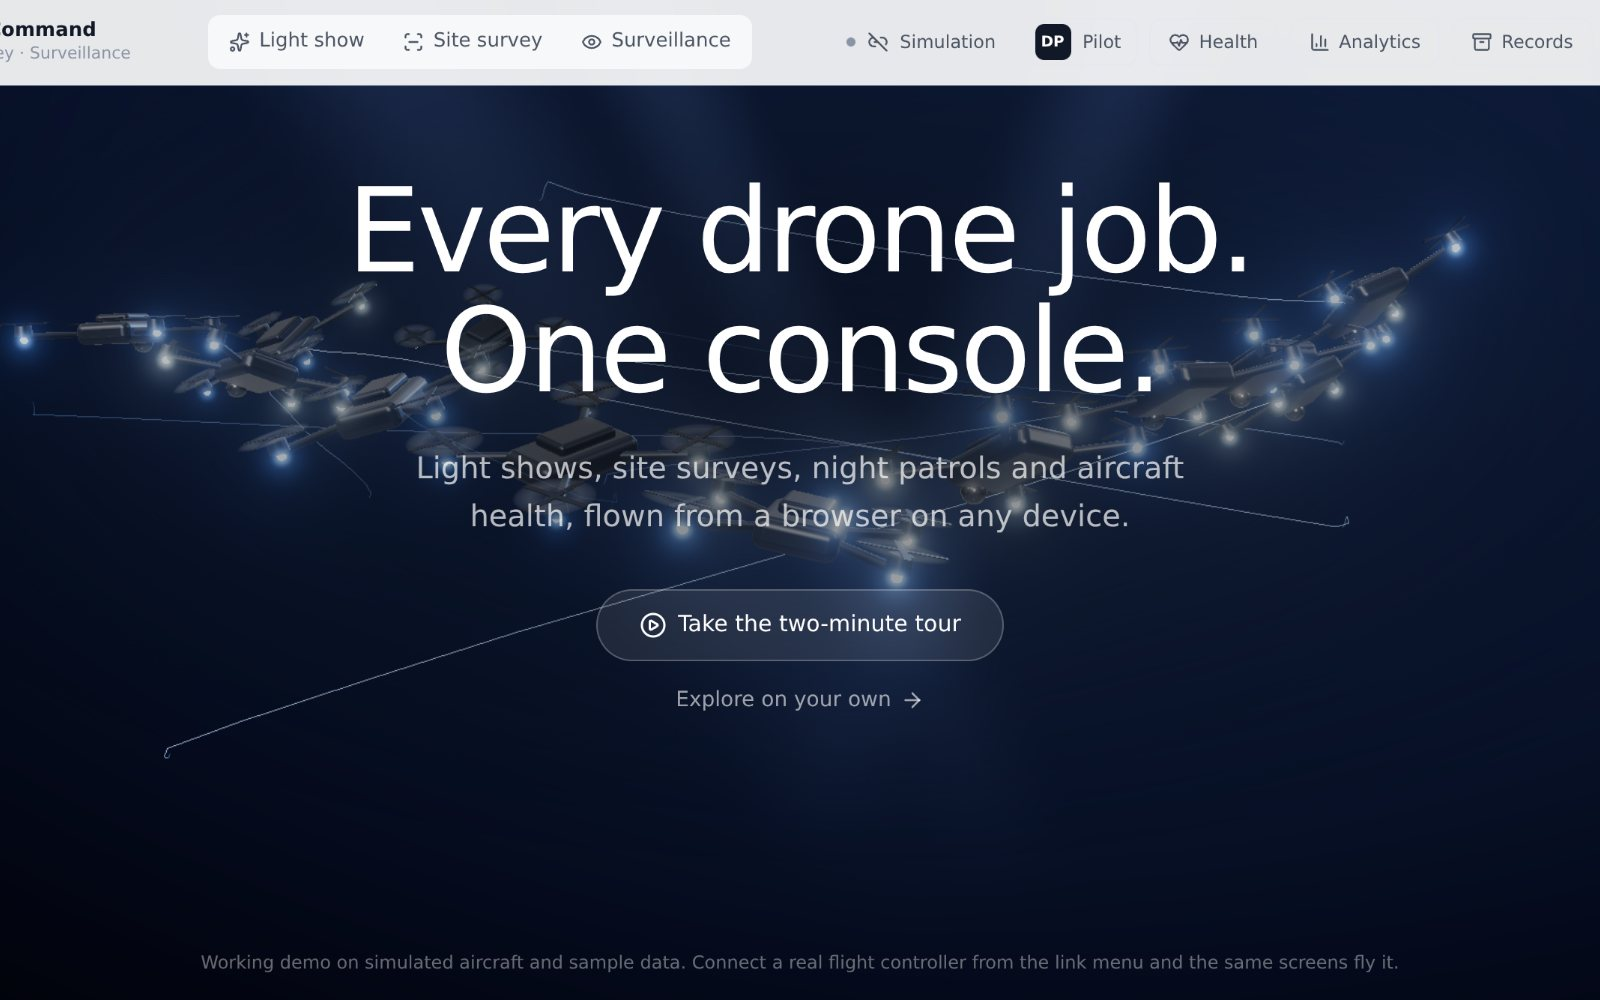
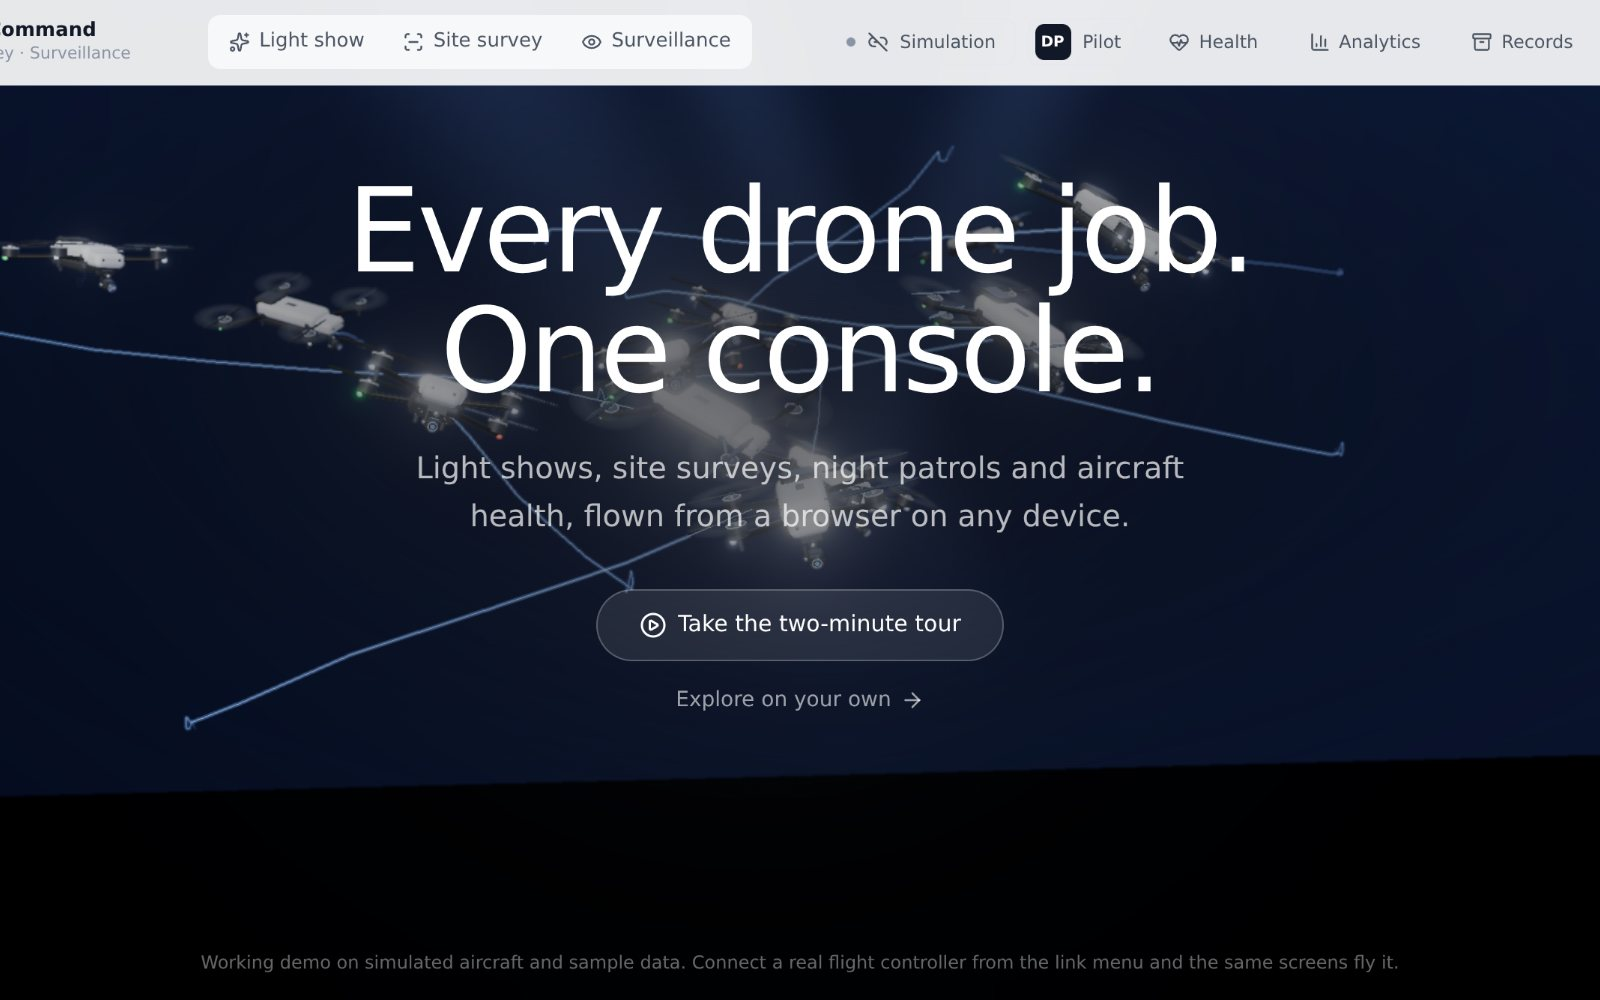
Overview hero: Mavic-class airframe, studio lighting, depth of field
The hero drones are now a consumer quadcopter built from primitives: white
and graphite two-tone shell with a seam line, folding carbon arms on hinge
pivots, motor housings with a brushed ring and vent slits, tapered two-blade
propellers with a blur disc, a three-axis gimbal under the nose with an
articulated arm and a blue-coated lens, obstacle sensors, status LEDs,
landing skids and micro-screws. Key, fill and rim lights, a three-quarter
elevated camera, and shallow depth of field focused on the nearest aircraft
(skipped on phones). Bloom now catches only the LEDs. Social preview and
gallery images regenerated.

Claude-Session: https://claude.ai/code/session_01YRwyL2vKMqSR8sPnguMhnM

diff --git a/drone/src/dashboards/hero/DroneHero.tsx b/drone/src/dashboards/hero/DroneHero.tsx
@@ -4,6 +4,7 @@ import { EffectComposer } from 'three/examples/jsm/postprocessing/EffectComposer
 import { RenderPass } from 'three/examples/jsm/postprocessing/RenderPass.js';
 import { UnrealBloomPass } from 'three/examples/jsm/postprocessing/UnrealBloomPass.js';
 import { OutputPass } from 'three/examples/jsm/postprocessing/OutputPass.js';
+import { BokehPass } from 'three/examples/jsm/postprocessing/BokehPass.js';
 import { RoundedBoxGeometry } from 'three/examples/jsm/geometries/RoundedBoxGeometry.js';
 import { RoomEnvironment } from 'three/examples/jsm/environments/RoomEnvironment.js';
 
@@ -62,34 +63,81 @@ interface Drone {
   roll: number; pitch: number; yaw: number;
 }
 
-function buildDrone(mats: Record<string, THREE.Material>, blurTex: THREE.Texture, ledColor: THREE.Color): { group: THREE.Group; props: THREE.Group[]; blur: THREE.Mesh[] } {
+/**
+ * A Mavic-class consumer quadcopter, built from primitives: white-and-graphite
+ * two-tone shell with a seam line, folding carbon arms on hinge pivots, motor
+ * housings with a brushed ring and vent slits, tapered two-blade propellers with
+ * a blur disc, a three-axis gimbal on the nose cradling a blue-coated lens,
+ * obstacle sensors, status LEDs, landing skids and micro-screws.
+ * Local axes: +x forward, +y up, +z right. About 1.3 units nose to tail.
+ */
+function buildDrone(mats: Record<string, THREE.Material>, blurTex: THREE.Texture): { group: THREE.Group; props: THREE.Group[]; blur: THREE.Mesh[] } {
   const g = new THREE.Group();
-  const body = new THREE.Mesh(new RoundedBoxGeometry(1.05, 0.26, 0.64, 4, 0.09), mats.body);
-  g.add(body);
-  const canopy = new THREE.Mesh(new RoundedBoxGeometry(0.62, 0.12, 0.4, 3, 0.05), mats.canopy);
-  canopy.position.set(0.05, 0.17, 0); g.add(canopy);
-  const gimbal = new THREE.Mesh(new THREE.SphereGeometry(0.12, 20, 14), mats.glass);
-  gimbal.position.set(0.5, -0.13, 0); g.add(gimbal);
+  const add = (geo: THREE.BufferGeometry, m: THREE.Material, x: number, y: number, z: number, rx = 0, ry = 0, rz = 0) => {
+    const mesh = new THREE.Mesh(geo, m); mesh.position.set(x, y, z); mesh.rotation.set(rx, ry, rz); g.add(mesh); return mesh;
+  };
+  // Shell: white upper, graphite lower, a dark seam between, a tapered nose and a battery hump at the tail.
+  add(new RoundedBoxGeometry(0.92, 0.2, 0.4, 5, 0.08), mats.white, 0, 0.05, 0);
+  add(new RoundedBoxGeometry(0.34, 0.16, 0.32, 4, 0.06), mats.white, 0.52, 0.01, 0);
+  add(new RoundedBoxGeometry(0.9, 0.12, 0.42, 4, 0.05), mats.graphite, -0.02, -0.08, 0);
+  add(new THREE.BoxGeometry(0.93, 0.008, 0.415), mats.seam, 0, -0.03, 0);
+  add(new RoundedBoxGeometry(0.3, 0.1, 0.3, 4, 0.04), mats.graphite, -0.36, 0.14, 0);
+  add(new RoundedBoxGeometry(0.16, 0.006, 0.07, 2, 0.003), mats.logo, -0.02, 0.152, 0);             // manufacturer mark
+  for (const zz of [-0.215, 0.215]) for (let k = 0; k < 3; k++) add(new THREE.BoxGeometry(0.05, 0.004, 0.006), mats.seam, -0.18 - k * 0.07, -0.06, zz);  // vent slits
+  for (const [x, z] of [[0.3, 0.14], [0.3, -0.14], [-0.3, 0.14], [-0.3, -0.14]]) add(new THREE.CylinderGeometry(0.009, 0.009, 0.004, 8), mats.metal, x, -0.142, z);  // micro screws
+  // Obstacle-avoidance sensors: two on the nose, two underneath.
+  const sensorGeo = new THREE.CylinderGeometry(0.016, 0.016, 0.01, 12);
+  for (const zz of [-0.09, 0.09]) add(sensorGeo, mats.sensor, 0.69, 0.02, zz, 0, 0, Math.PI / 2);
+  for (const zz of [-0.1, 0.1]) add(sensorGeo, mats.sensor, 0.12, -0.145, zz);
+  // Arms: front pair swept forward and up, rear pair back and lower, each on a hinge pivot.
   const props: THREE.Group[] = [], blur: THREE.Mesh[] = [];
-  const armGeo = new THREE.CylinderGeometry(0.035, 0.045, 0.98, 10).rotateZ(Math.PI / 2);
-  const motorGeo = new THREE.CylinderGeometry(0.09, 0.1, 0.13, 16);
-  const ledGeo = new THREE.SphereGeometry(0.045, 10, 8);
-  const bladeGeo = new THREE.BoxGeometry(0.66, 0.012, 0.055);
-  const discGeo = new THREE.CircleGeometry(0.34, 32);
-  for (const [sx, sz] of [[1, 1], [1, -1], [-1, 1], [-1, -1]]) {
-    const arm = new THREE.Mesh(armGeo, mats.arm);
-    arm.position.set(sx * 0.42, 0, sz * 0.42); arm.rotation.y = -Math.atan2(sz, sx); g.add(arm);
-    const tip = new THREE.Vector3(sx * 0.78, 0, sz * 0.78);
-    const motor = new THREE.Mesh(motorGeo, mats.arm); motor.position.copy(tip).setY(0.06); g.add(motor);
-    const led = new THREE.Mesh(ledGeo, sx > 0 ? mats.ledFront : mats.ledRear); led.position.copy(tip).setY(-0.04); g.add(led);
-    const prop = new THREE.Group(); prop.position.copy(tip).setY(0.15);
-    const b1 = new THREE.Mesh(bladeGeo, mats.blade), b2 = new THREE.Mesh(bladeGeo, mats.blade); b2.rotation.y = Math.PI / 2;
-    prop.add(b1, b2);
-    const disc = new THREE.Mesh(discGeo, new THREE.MeshBasicMaterial({ map: blurTex, color: 0x9aa4b0, transparent: true, opacity: 0.28, depthWrite: false }));
-    disc.rotation.x = -Math.PI / 2; disc.position.y = 0.002; prop.add(disc);
+  const bladeShape = new THREE.Shape();
+  bladeShape.moveTo(0.02, -0.024); bladeShape.quadraticCurveTo(0.2, -0.05, 0.38, -0.012); bladeShape.lineTo(0.38, 0.008); bladeShape.quadraticCurveTo(0.2, 0.042, 0.02, 0.024); bladeShape.closePath();
+  const bladeGeo = new THREE.ExtrudeGeometry(bladeShape, { depth: 0.007, bevelEnabled: false }).rotateX(-Math.PI / 2);
+  const discGeo = new THREE.CircleGeometry(0.39, 40);
+  const arms: [number, number, number, number, number, number][] = [
+    [0.36, 0.0, 0.17, 0.66, 0.05, 0.55], [0.36, 0.0, -0.17, 0.66, 0.05, -0.55],
+    [-0.34, -0.03, 0.18, -0.62, -0.07, 0.6], [-0.34, -0.03, -0.18, -0.62, -0.07, -0.6],
+  ];
+  arms.forEach(([hx, hy, hz, tx, ty, tz], k) => {
+    add(new THREE.CylinderGeometry(0.045, 0.045, 0.11, 16), mats.graphite, hx, hy, hz);                           // hinge pivot
+    add(new THREE.CylinderGeometry(0.012, 0.012, 0.13, 8), mats.metal, hx, hy, hz);                                // pivot pin
+    const dx = tx - hx, dy = ty - hy, dz = tz - hz, len = Math.hypot(dx, dy, dz);
+    const arm = add(new RoundedBoxGeometry(len + 0.06, 0.05, 0.062, 3, 0.02), mats.carbon, (hx + tx) / 2, (hy + ty) / 2, (hz + tz) / 2);
+    arm.rotation.set(0, -Math.atan2(dz, dx), Math.atan2(dy, Math.hypot(dx, dz)), 'YZX');
+    add(new THREE.CylinderGeometry(0.075, 0.085, 0.1, 20), mats.graphite, tx, ty + 0.05, tz);                       // motor housing
+    add(new THREE.TorusGeometry(0.078, 0.008, 8, 28), mats.metal, tx, ty + 0.1, tz, Math.PI / 2);                   // brushed ring
+    add(new THREE.CylinderGeometry(0.03, 0.03, 0.03, 12), mats.metal, tx, ty + 0.115, tz);                          // motor bell
+    for (let v = 0; v < 4; v++) add(new THREE.BoxGeometry(0.03, 0.005, 0.005), mats.seam, tx + 0.06 * Math.cos(v * 1.57), ty + 0.03, tz + 0.06 * Math.sin(v * 1.57), 0, -v * 1.57, 0);
+    if (k < 2) add(new RoundedBoxGeometry(0.028, 0.13, 0.028, 2, 0.008), mats.skid, tx - 0.02, ty - 0.06, tz);   // front landing skids
+    // Status LEDs on the arm tips: white-ish forward, green and red aft.
+    const led = add(new THREE.SphereGeometry(0.02, 10, 8), k < 2 ? mats.ledFront : k === 2 ? mats.ledGreen : mats.ledRed, tx + (k < 2 ? 0.04 : -0.04), ty - 0.01, tz + Math.sign(tz) * 0.05);
+    void led;
+    // Propeller: two tapered blades with a little pitch, and a blur disc.
+    const prop = new THREE.Group(); prop.position.set(tx, ty + 0.135, tz);
+    const b1 = new THREE.Mesh(bladeGeo, mats.blade); b1.rotation.x = 0.22;
+    const b2 = new THREE.Mesh(bladeGeo, mats.blade); b2.rotation.set(0.22, Math.PI, 0);
+    prop.add(b1, b2, new THREE.Mesh(new THREE.CylinderGeometry(0.02, 0.024, 0.02, 12), mats.graphite));
+    const disc = new THREE.Mesh(discGeo, new THREE.MeshBasicMaterial({ map: blurTex, color: 0x8c949e, transparent: true, opacity: 0.2, depthWrite: false }));
+    disc.rotation.x = -Math.PI / 2; disc.position.y = 0.004; prop.add(disc);
     g.add(prop); props.push(prop); blur.push(disc);
-  }
-  void ledColor;
+  });
+  for (const zz of [-0.12, 0.12]) add(new RoundedBoxGeometry(0.03, 0.08, 0.03, 2, 0.008), mats.skid, -0.42, -0.17, zz);   // rear skids
+  // Gimbal: dampers, roll motor, an articulated arm with pivot joints, the camera body and lens, tilted slightly down.
+  add(new THREE.BoxGeometry(0.1, 0.05, 0.16), mats.graphite, 0.5, -0.135, 0);
+  for (const zz of [-0.05, 0.05]) add(new THREE.SphereGeometry(0.014, 8, 6), mats.rubber, 0.52, -0.165, zz);
+  add(new THREE.CylinderGeometry(0.03, 0.03, 0.05, 16), mats.graphite, 0.58, -0.17, 0, 0, 0, Math.PI / 2);          // roll motor
+  add(new THREE.SphereGeometry(0.018, 10, 8), mats.metal, 0.61, -0.17, 0);                                          // pivot joint
+  add(new RoundedBoxGeometry(0.026, 0.1, 0.026, 2, 0.008), mats.graphite, 0.61, -0.22, 0.07);                       // arm down
+  add(new RoundedBoxGeometry(0.026, 0.026, 0.09, 2, 0.008), mats.graphite, 0.61, -0.265, 0.035);                    // arm across
+  add(new THREE.SphereGeometry(0.016, 10, 8), mats.metal, 0.61, -0.265, 0.075);                                     // tilt joint
+  const camGroup = new THREE.Group(); camGroup.position.set(0.61, -0.265, 0); camGroup.rotation.z = -0.28;          // tilted down, stabilising
+  const camBody = new THREE.Mesh(new RoundedBoxGeometry(0.11, 0.1, 0.12, 3, 0.03), mats.graphite); camGroup.add(camBody);
+  const barrel = new THREE.Mesh(new THREE.CylinderGeometry(0.038, 0.042, 0.05, 24), mats.graphite); barrel.rotation.z = Math.PI / 2; barrel.position.x = 0.075; camGroup.add(barrel);
+  const ring = new THREE.Mesh(new THREE.TorusGeometry(0.036, 0.005, 8, 28), mats.metal); ring.rotation.y = Math.PI / 2; ring.position.x = 0.1; camGroup.add(ring);       // aperture ring
+  const lens = new THREE.Mesh(new THREE.CylinderGeometry(0.03, 0.03, 0.012, 24), mats.lens); lens.rotation.z = Math.PI / 2; lens.position.x = 0.098; camGroup.add(lens);
+  const coat = new THREE.Mesh(new THREE.CircleGeometry(0.022, 24), mats.coating); coat.rotation.y = Math.PI / 2; coat.position.x = 0.105; camGroup.add(coat);          // blue anti-reflective glint
+  g.add(camGroup);
   return { group: g, props, blur };
 }
 
@@ -115,21 +163,22 @@ export const DroneHero: React.FC<{ className?: string }> = ({ className = '' }) 
     scene.fog = new THREE.Fog(0x05070c, 16, 58);
     const pmrem = new THREE.PMREMGenerator(renderer);
     scene.environment = pmrem.fromScene(new RoomEnvironment(), 0.04).texture;
-    scene.environmentIntensity = 0.9;
+    scene.environmentIntensity = 0.55;
     const cam = new THREE.PerspectiveCamera(42, 16 / 9, 0.5, 120);
 
     // Backdrop: deep navy glow falling to black, outside the fog.
-    const back = new THREE.Mesh(new THREE.PlaneGeometry(320, 200), new THREE.ShaderMaterial({
+    const back = new THREE.Mesh(new THREE.PlaneGeometry(900, 700), new THREE.ShaderMaterial({
       fog: false, depthWrite: false,
       vertexShader: 'varying vec2 vUv; void main(){ vUv = uv; gl_Position = projectionMatrix * modelViewMatrix * vec4(position, 1.0); }',
-      fragmentShader: 'varying vec2 vUv; void main(){ float d = distance(vUv, vec2(0.58, 0.62)); vec3 c = mix(vec3(0.014, 0.024, 0.06), vec3(0.0016, 0.002, 0.0038), smoothstep(0.04, 0.6, d)); gl_FragColor = vec4(c, 1.0); }',
+      fragmentShader: 'varying vec2 vUv; void main(){ float d = distance((vUv - 0.5) * vec2(1.0, 0.78) + 0.5, vec2(0.54, 0.56)); vec3 c = mix(vec3(0.014, 0.024, 0.06), vec3(0.0016, 0.002, 0.0038), smoothstep(0.02, 0.3, d)); gl_FragColor = vec4(c, 1.0); }',
     }));
     back.position.z = -90; scene.add(back);
 
     // Lighting: warm key from the front-left and above, cool rim from behind, faint sky fill.
     scene.add(new THREE.HemisphereLight(0x8fa8d8, 0x06080c, 0.55));
-    const key = new THREE.DirectionalLight(0xfff1e0, 3.6); key.position.set(-8, 12, 14); scene.add(key);
-    const rim = new THREE.DirectionalLight(0x6fa8ff, 3.2); rim.position.set(6, 5, -18); scene.add(rim);
+    const key = new THREE.DirectionalLight(0xfff1e0, 1.7); key.position.set(-9, 14, 12); scene.add(key);
+    const fill = new THREE.DirectionalLight(0xdbe6ff, 0.55); fill.position.set(10, 3, 14); scene.add(fill);
+    const rim = new THREE.DirectionalLight(0x8fc0ff, 2.4); rim.position.set(2, 9, -16); scene.add(rim);
     const under = new THREE.DirectionalLight(0x3d6fd6, 0.6); under.position.set(0, -10, 4); scene.add(under);
 
     // Volumetric beams: soft additive slabs cutting through the haze.
@@ -147,13 +196,21 @@ export const DroneHero: React.FC<{ className?: string }> = ({ className = '' }) 
 
     // Materials: anodised metal, dark glass, LEDs bright enough to bloom.
     const mats: Record<string, THREE.Material> = {
-      body: new THREE.MeshStandardMaterial({ color: 0x262b33, metalness: 0.62, roughness: 0.3 }),
-      canopy: new THREE.MeshStandardMaterial({ color: 0x23272e, metalness: 0.7, roughness: 0.28 }),
-      arm: new THREE.MeshStandardMaterial({ color: 0x2a2f37, metalness: 0.7, roughness: 0.38 }),
-      glass: new THREE.MeshPhysicalMaterial({ color: 0x080a0e, metalness: 0.1, roughness: 0.12, clearcoat: 1, clearcoatRoughness: 0.08 }),
-      blade: new THREE.MeshStandardMaterial({ color: 0x0f1115, metalness: 0.5, roughness: 0.5 }),
-      ledFront: new THREE.MeshBasicMaterial({ color: new THREE.Color(2.4, 3.2, 3.8), toneMapped: false }),
-      ledRear: new THREE.MeshBasicMaterial({ color: new THREE.Color(0.7, 1.7, 4.2), toneMapped: false }),
+      white: new THREE.MeshPhysicalMaterial({ color: 0xcfd3d7, metalness: 0.02, roughness: 0.5, clearcoat: 0.35, clearcoatRoughness: 0.4 }),
+      graphite: new THREE.MeshPhysicalMaterial({ color: 0x2c3036, metalness: 0.15, roughness: 0.55, clearcoat: 0.2, clearcoatRoughness: 0.5 }),
+      carbon: new THREE.MeshStandardMaterial({ color: 0x1b1e23, metalness: 0.35, roughness: 0.42 }),
+      seam: new THREE.MeshStandardMaterial({ color: 0x0c0e11, metalness: 0.2, roughness: 0.8 }),
+      logo: new THREE.MeshStandardMaterial({ color: 0x4a4f57, metalness: 0.4, roughness: 0.5 }),
+      metal: new THREE.MeshStandardMaterial({ color: 0xb9bec6, metalness: 0.95, roughness: 0.32 }),
+      skid: new THREE.MeshStandardMaterial({ color: 0x3a3d42, metalness: 0.1, roughness: 0.85 }),
+      rubber: new THREE.MeshStandardMaterial({ color: 0x1a1b1e, metalness: 0, roughness: 0.95 }),
+      sensor: new THREE.MeshPhysicalMaterial({ color: 0x0a0d12, metalness: 0.1, roughness: 0.15, clearcoat: 1, clearcoatRoughness: 0.05 }),
+      lens: new THREE.MeshPhysicalMaterial({ color: 0x08111f, metalness: 0.05, roughness: 0.04, clearcoat: 1, clearcoatRoughness: 0.02, envMapIntensity: 2.2 }),
+      coating: new THREE.MeshBasicMaterial({ color: new THREE.Color(0.25, 0.55, 1.4), transparent: true, opacity: 0.55, toneMapped: false }),
+      blade: new THREE.MeshStandardMaterial({ color: 0x111317, metalness: 0.3, roughness: 0.55, side: THREE.DoubleSide }),
+      ledFront: new THREE.MeshBasicMaterial({ color: new THREE.Color(1.6, 1.9, 2.4), toneMapped: false }),
+      ledGreen: new THREE.MeshBasicMaterial({ color: new THREE.Color(0.3, 2.6, 0.7), toneMapped: false }),
+      ledRed: new THREE.MeshBasicMaterial({ color: new THREE.Color(2.8, 0.25, 0.2), toneMapped: false }),
     };
     const blurTex = radialTexture();
     const n = phone ? 7 : 12;
@@ -162,11 +219,11 @@ export const DroneHero: React.FC<{ className?: string }> = ({ className = '' }) 
     const rnd = seeded(7);
     for (let i = 0; i < n; i++) {
       const ledColor = new THREE.Color(0.45, 0.8, 1.6);
-      const { group, props, blur } = buildDrone(mats, blurTex, ledColor);
+      const { group, props, blur } = buildDrone(mats, blurTex);
       group.position.set(...(reduced ? K1[i] : K0[i]));
       group.scale.setScalar(1.35);
       scene.add(group);
-      const pts = 22;
+      const pts = 16;
       const tg = new THREE.BufferGeometry();
       tg.setAttribute('position', new THREE.BufferAttribute(new Float32Array(pts * 3), 3));
       tg.setAttribute('color', new THREE.BufferAttribute(new Float32Array(pts * 3), 3));
@@ -177,7 +234,10 @@ export const DroneHero: React.FC<{ className?: string }> = ({ className = '' }) 
 
     const composer = new EffectComposer(renderer);
     composer.addPass(new RenderPass(scene, cam));
-    const bloom = new UnrealBloomPass(new THREE.Vector2(1, 1), phone ? 0.45 : 0.55, 0.6, 0.82);
+    // Shallow depth of field, focused on whichever aircraft is nearest; skipped on phones.
+    const bokeh = phone ? null : new BokehPass(scene, cam, { focus: 12, aperture: 0.00012, maxblur: 0.0022 });
+    if (bokeh) composer.addPass(bokeh);
+    const bloom = new UnrealBloomPass(new THREE.Vector2(1, 1), phone ? 0.4 : 0.45, 0.55, 0.98);
     composer.addPass(bloom);
     composer.addPass(new OutputPass());
 
@@ -222,8 +282,9 @@ export const DroneHero: React.FC<{ className?: string }> = ({ className = '' }) 
       const t = now / 1000;
       p += (target - p) * (1 - Math.exp(-dt * 2.6));
       px += (mx - px) * (1 - Math.exp(-dt * 2)); py += (my - py) * (1 - Math.exp(-dt * 2));
-      cam.position.set(px * 0.9 + Math.sin(t * 0.11) * 0.3, 3.1 - py * 0.5 + Math.sin(t * 0.17) * 0.15, 19.5 - p * 3.2);
-      cam.lookAt(0, 1.3 + p * 0.3, 0);
+      cam.position.set(px * 0.9 + Math.sin(t * 0.11) * 0.3, 6.2 - py * 0.6 + Math.sin(t * 0.17) * 0.15, 18.5 - p * 3.2);
+      cam.lookAt(0, 0.9 + p * 0.3, 0);
+      let nearest = 1e9;
       beams.forEach((b, k) => { b.rotation.z = [0.55, 0.42, -0.35][k] + Math.sin(t * 0.08 + k) * 0.05; });
       drones.forEach((d, i) => {
         d.prev.copy(d.group.position);
@@ -234,23 +295,25 @@ export const DroneHero: React.FC<{ className?: string }> = ({ className = '' }) 
         const pitch = THREE.MathUtils.clamp(vel.z * 0.07, -0.45, 0.45) + Math.sin(t * 1.1 + d.phase) * 0.025;
         const yaw = vel.length() > 0.8 ? Math.atan2(vel.x, -vel.z) * 0.35 : d.yaw;
         d.roll += (roll - d.roll) * (1 - Math.exp(-dt * 3)); d.pitch += (pitch - d.pitch) * (1 - Math.exp(-dt * 3)); d.yaw += (yaw - d.yaw) * (1 - Math.exp(-dt * 1.5));
-        d.group.rotation.set(d.pitch, d.yaw + Math.PI * 0.5, d.roll, 'YXZ');
+        d.group.rotation.set(d.pitch - 0.08, d.yaw - Math.PI * 0.5 + 0.55 + Math.sin(d.phase) * 0.3, d.roll, 'YXZ');
+        nearest = Math.min(nearest, d.group.position.distanceTo(cam.position));
         const spin = dt * 62;
         d.props.forEach((pr, k) => { pr.rotation.y += spin * (k % 2 ? -1 : 1); });
         // Light trail: recent positions, fading, brighter the faster the aircraft moves.
         d.history.pop(); d.history.unshift(d.group.position.clone());
         const pos = d.trail.geometry.getAttribute('position') as THREE.BufferAttribute, col = d.trail.geometry.getAttribute('color') as THREE.BufferAttribute;
         const strength = THREE.MathUtils.clamp((vel.length() - 1.2) / 10, 0, 1);
-        d.history.forEach((h, k) => { pos.setXYZ(k, h.x, h.y - 0.05, h.z); const f = strength * (1 - k / d.history.length) * 1.4; col.setXYZ(k, d.ledColor.r * f, d.ledColor.g * f, d.ledColor.b * f); });
+        d.history.forEach((h, k) => { pos.setXYZ(k, h.x, h.y - 0.05, h.z); const f = strength * (1 - k / d.history.length) * 0.8; col.setXYZ(k, d.ledColor.r * f, d.ledColor.g * f, d.ledColor.b * f); });
         pos.needsUpdate = true; col.needsUpdate = true;
       });
+      if (bokeh) (bokeh.uniforms as { focus: { value: number } }).focus.value += (nearest - (bokeh.uniforms as { focus: { value: number } }).focus.value) * 0.1;
       composer.render();
       raf = requestAnimationFrame(frame);
     };
 
     if (reduced) {
-      drones.forEach((d, i) => { place(d, i, 0.5, 0); d.group.rotation.y = Math.PI * 0.5; d.props.forEach(pr => { pr.rotation.y = i; }); d.blur.forEach(b => { b.visible = false; }); });
-      cam.position.set(0, 3.1, 18); cam.lookAt(0, 1.4, 0); composer.render();
+      drones.forEach((d, i) => { place(d, i, 0.5, 0); d.group.rotation.y = -Math.PI * 0.5 + 0.55; d.props.forEach(pr => { pr.rotation.y = i; }); d.blur.forEach(b => { b.visible = false; }); });
+      cam.position.set(0, 6.2, 18); cam.lookAt(0, 1.0, 0); composer.render();
     } else {
       raf = requestAnimationFrame(frame);
     }
